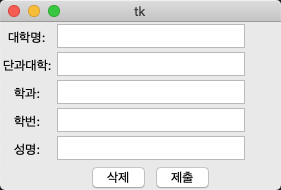
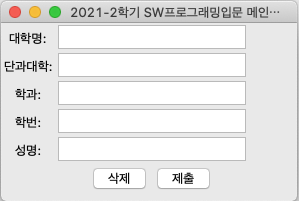
파이썬 메인과제 5번 코드 추가 커밋

diff --git a/유신환_문제5-결과.py b/유신환_문제5-결과.py
@@ -1,0 +1,18 @@
+import turtle
+arrow = turtle.Turtle()
+square = turtle.Turtle()
+
+arrow.shape("arrow")
+arrow.forward(100)
+arrow.right(90)
+arrow.forward(50)
+arrow.left(90)
+arrow.forward(100)
+
+square.shape("square")
+square.forward(-100)
+square.left(90)
+square.forward(50)
+square.left(90)
+square.forward(100)
+

diff --git a/유신환_문제4-결과.py b/유신환_문제4-결과.py
@@ -1,6 +1,7 @@
 from tkinter import *
 
 window = Tk()
+window.title("2021-2학기 SW프로그래밍입문 메인과제2-4")
 
 Label(window, text="대학명:").grid(row=0)
 Label(window, text="단과대학:").grid(row=1)
